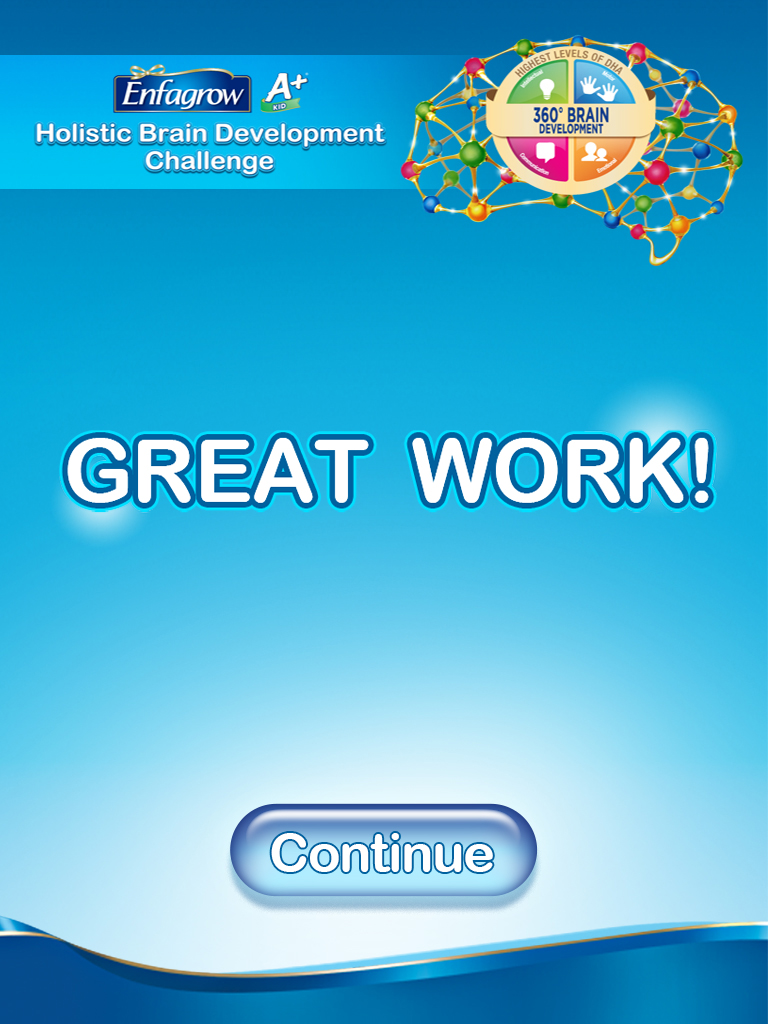
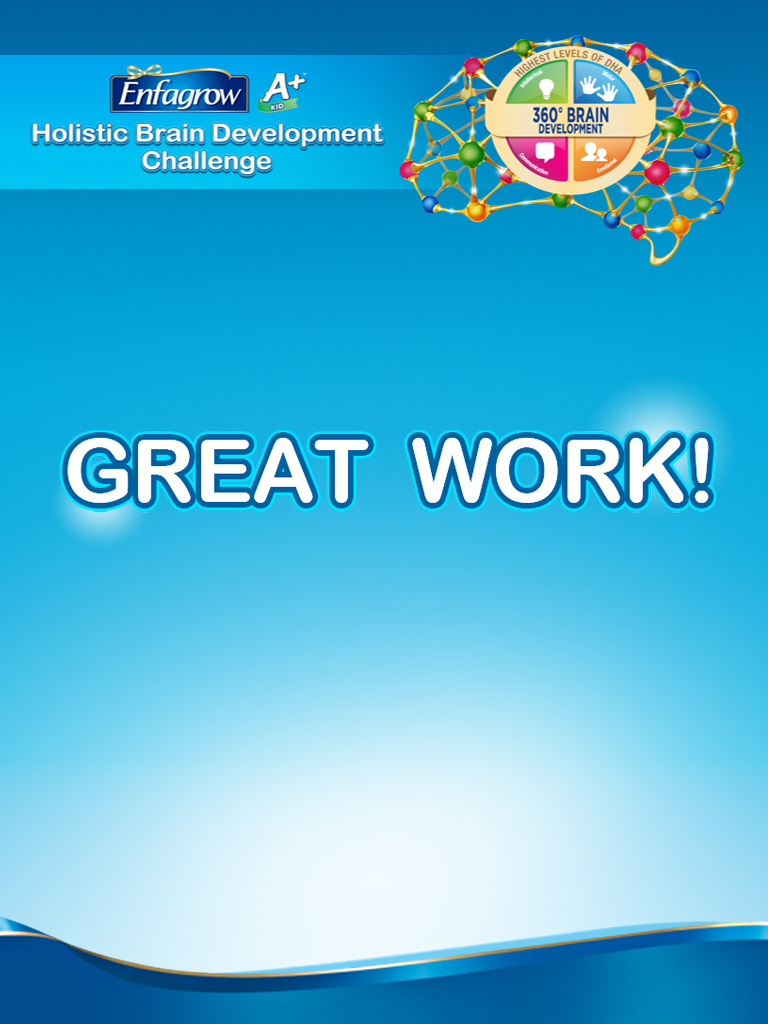
click to live click

diff --git a/PPS Game/js/main.js b/PPS Game/js/main.js
@@ -4,14 +4,14 @@
 	  e.preventDefault();
 	}, false);
 	
-	$('.startBtn').click(function() {
+	$('.startBtn').live('click',function() {
 		$(this).parent('#cover').removeClass('active').addClass('done');
 		$(this).parent('#cover').siblings('#regpage').addClass('active');
 	});
 	
 	$('.regBtn').css({opacity: '0'});
 	
-	$('.regBtn').click(function() {
+	$('.regBtn').live('click',function() {
 		var errorcount = 0;
 		$('#regpage > input[required="required"]').each(function(){
 			if($.trim($(this).val()) == ""){
@@ -35,13 +35,13 @@
 		
 	});
 	
-	$('.playBtn').click(function() {
+	$('.playBtn').live('click',function() {
 		$(this).parent('#mech').removeClass('active').addClass('done');
 		$(this).parent('#mech').siblings('#q1').addClass('active');
 		document.getElementById('clocktick').play();
 		$('#counter').countdown({
           image: 'css/images/digits.png',
-          startTime: '03:00',
+          startTime: '01:00',
           timerEnd: function(){ endtime(); },
           format: 'mm:ss'
         });
@@ -49,7 +49,7 @@
 	
 	
 	$('.intel-chart a').each(function() {
-		$(this).click(function() {
+		$(this).live('click',function() {
 			if($(this).hasClass('i1')) {
 				
 				/*document.getElementById('clocktick').pause();*/
@@ -65,7 +65,7 @@
 		});
 	});
 	$('.motor-chart a').each(function() {
-		$(this).click(function() {
+		$(this).live('click',function() {
 			if($(this).hasClass('m2')) {
 				/*document.getElementById('clocktick').pause();*/
 				$('#q2').addClass('right').removeClass('wrong');
@@ -81,7 +81,7 @@
 		});
 	});
 	$('.emo-chart a').each(function() {
-		$(this).click(function() {
+		$(this).live('click', function() {
 			if($(this).hasClass('e4')) {
 				/*document.getElementById('clocktick').pause();*/
 				$('#q3').addClass('right').removeClass('wrong');
@@ -97,7 +97,7 @@
 		});
 	});
 	$('.comm-chart a').each(function() {
-		$(this).click(function() {
+		$(this).live('click',function() {
 			if($(this).hasClass('c3')) {
 				/*document.getElementById('clocktick').pause();*/
 				$('#q4').addClass('right').removeClass('wrong');
@@ -113,7 +113,7 @@
 		});
 	});
 	$('.clock-chart a').each(function() {
-		$(this).click(function() {
+		$(this).live('click',function() {
 			if($(this).hasClass('cl2')) {
 				/*document.getElementById('clocktick').pause();*/
 				$('#q5').addClass('right').removeClass('wrong');
@@ -128,12 +128,13 @@
 		});
 	});
 	
-	$('.contBtn').click(function() {
-		$(this).parent('#gw').removeClass('active').addClass('done');
-		$(this).parent('#gw').siblings('#fin').addClass('active');
+	$('.contBtn').live('click',function() {
+		$('#gw').removeClass('active').addClass('done');
+		$('#fin').addClass('active');
+		$('#retry').remove();
 	});
 	
-	$('.finBtn,.retryBtn').click(function() {
+	$('.finBtn,.retryBtn').live('click',function() {
 		location.reload();
 	});
 	
@@ -170,17 +171,30 @@
 	
 	function qw() {
 		if($('#q5 .righttxt').is(":visible")) {
-			$('#q5').delay(5000).removeClass('active').addClass('done');
-			$('#gw').delay(5000).addClass('active');
+			$('#q5').removeClass('active').addClass('done');
+			$('#gw').addClass('active').delay(2000).queue(function() {
+				$('.contBtn').click();
+			});
 			$('#counter').remove();
+			
 			document.getElementById('clocktick').pause();
+			
 		}
 		
 	}
 	
 	
+	/*function fin() {
+		$('#gw').delay(10000).removeClass('active').addClass('done');
+		$('#fin').delay(10000).addClass('active');
+
+	}*/
+	
 	function endtime() {
 		var active = $('div.active').attr('id');
+		if(active == 'fin') {
+			return false;
+		}
 		$('#' + active).delay(5000).removeClass('active').addClass('done');
 		$('#retry').delay(5000).addClass('active');
 		$('#counter').remove();

diff --git a/PPS Game/index.html b/PPS Game/index.html
@@ -1,4 +1,4 @@
-<!DOCTYPE html>
+<!DOCTYPE html>
 <html>
 <head>
 <meta name="apple-mobile-web-app-capable" content="yes" />
@@ -17,8 +17,8 @@
 			<a class="startBtn"></a>
 		</div>
 		<div id="regpage" class="slide">
-				<input type="text" id="name" required="required"/>
-				<input type="text" id="prc" required="required"/>
+				<input type="text" id="name"  required="required"/>
+				<input type="text" id="prc"  required="required"/>
 				<input type="text" id="address" required="required"/>
 				
 				<input type="text" id="name2" />

diff --git a/PPS Game/css/main.css b/PPS Game/css/main.css
@@ -108,7 +108,7 @@ margin: 24px 0;
 }
 
 #counter{
-top: 220px;
+top: 240px;
 position: absolute;
 right: 20px;
 z-index: 9002
